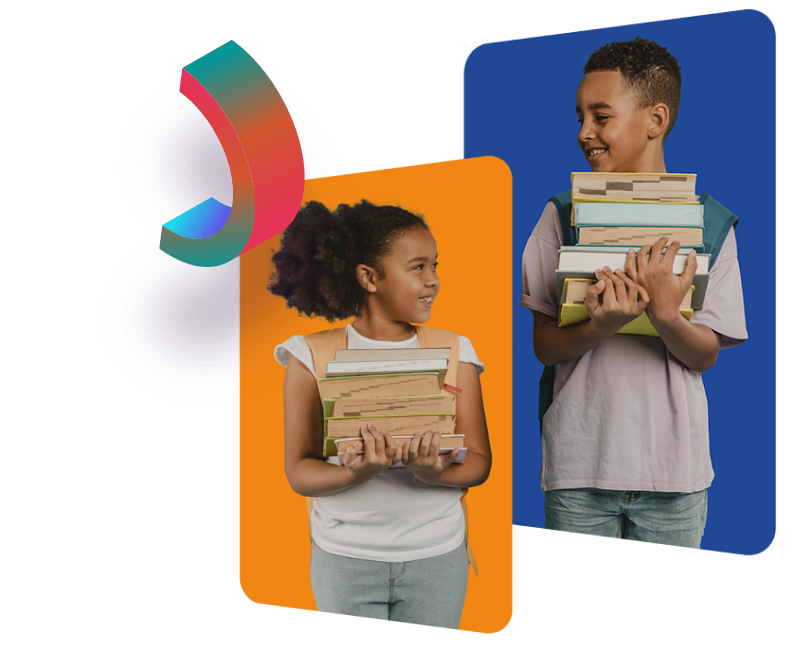
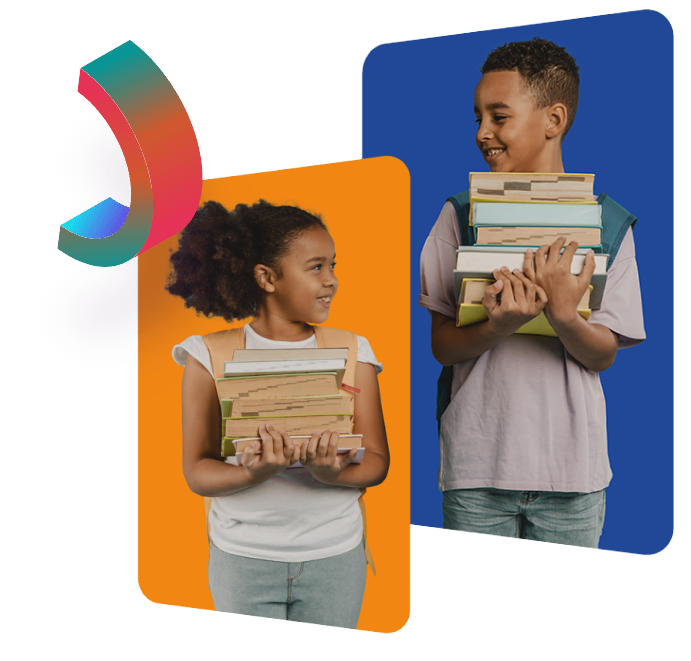
Navbar and Home page responsiveness

diff --git a/client/src/components/navbar/Navbar.jsx b/client/src/components/navbar/Navbar.jsx
@@ -1,34 +1,62 @@
-import React from "react";
-import { Link } from 'react-router-dom'; 
-import Profile from '../../assets/ketan.jpg'; 
-import Logo from '../../assets/logo.png'; 
+import React, { useState } from "react";
+import { Link } from 'react-router-dom';
+import Profile from '../../assets/ketan.jpg';
+import Logo from '../../assets/logo.png';
+import { FaBars, FaTimes } from 'react-icons/fa';
 
 const Navbar = () => {
+    const [isOpen, setIsOpen] = useState(false);
+
+    const toggleMenu = () => {
+        setIsOpen(!isOpen);
+    };
+
     return (
-        <section className="navbar w-full h-16 p-16  bg-transparent flex items-center justify-between px-8">
+        <section className="navbar w-full h-16 p-20 bg-transparent flex items-center justify-between px-8 relative">
             <div className="flex items-center">
-                <img src={Logo} className="w-11 h-11 ml-24 rounded-full" alt="Logo" />
+                <img src={Logo} className="w-11 h-11 ml-4 md:ml-24 rounded-full" alt="Logo" />
                 <span className="ml-4 text-white text-lg font-semibold">EduLink</span>
             </div>
             
-            <ul className="flex space-x-10 text-white">
-
+            {/* Desktop Menu */}
+            <ul className="hidden lg:flex space-x-10 text-white">
                 <li className="cursor-pointer px-5">
-                    <Link to="/" className=" font-semibold">Home</Link>
+                    <Link to="/" className="font-semibold">Home</Link>
                 </li>
-
                 <li className="cursor-pointer px-5">
-                    <Link to="/question" className=" font-semibold">Question</Link>
+                    <Link to="/question" className="font-semibold">Question</Link>
                 </li>
-
                 <li className="cursor-pointer px-5">
-                    <Link to="/resources" className=" font-semibold">Resources</Link>
+                    <Link to="/resources" className="font-semibold">Resources</Link>
                 </li>
-                
             </ul>
 
-            <div className="flex items-center">
-                <img src={Profile} className="w-11 h-11 mr-24 rounded-full" alt="Profile" />
+            <div className="hidden lg:flex items-center">
+                <img src={Profile} className="w-11 h-11 mr-4 md:mr-24 rounded-full" alt="Profile" />
+            </div>
+
+            {/* Mobile Menu Icon */}
+            <div className="lg:hidden flex items-center">
+                <button onClick={toggleMenu} className="text-white text-2xl">
+                    {isOpen ? <FaTimes /> : <FaBars />}
+                </button>
+            </div>
+
+            {/* Mobile Menu */}
+            <div
+                className={`fixed top-0 right-0 w-60 h-full bg-blue-500 text-white flex flex-col items-center pt-10 transition-transform transform ${
+                    isOpen ? "translate-x-0" : "translate-x-full"
+                } lg:hidden`}
+            >
+                {/* Close Button inside the Mobile Menu */}
+                <button onClick={toggleMenu} className="absolute top-4 right-4 text-white text-2xl">
+                    <FaTimes />
+                </button>
+                
+                <Link to="/" className="text-lg p-2 font-semibold hover:text-blue-500 mt-12" onClick={toggleMenu}>Home</Link>
+                <Link to="/question" className="text-lg hover:text-blue-500 p-2 font-semibold" onClick={toggleMenu}>Question</Link>
+                <Link to="/resources" className="text-lg hover:text-blue-500 p-2 font-semibold" onClick={toggleMenu}>Resources</Link>
+                <img src={Profile} className="w-20 h-20 p-2 mt-4 rounded-full" alt="Profile" />
             </div>
         </section>
     );

diff --git a/client/src/pages/home/Home.jsx b/client/src/pages/home/Home.jsx
@@ -6,17 +6,61 @@ import Banner from '../../assets/study.png';
 const Home = () => {
     return(
         <section className="home-page bg-[#151515] w-full h-svh">
+
+            {/* Imported Navbar */}
             <Navbar/>
-            <div className="home_title flex px-28 mt-11 overflow-hidden">
-                <div className="title-text">
-                    <h1 className="title text-8xl ml-28 mt-24 text-white font-bold">We make your doubt's clear</h1>
-                    <p className="desc ml-28 mt-8 text-[#fffefec7] ">A platform where all the students can clear their doubt  by faculty/alumni or seniors. And get the latest study material.</p>
-                    <button className="ml-28 mt-11 bg-blue-500 p-4 w-44 rounded-full text-white font-semibold"><Link to="/question" className="font-semibold">Ask question</Link></button>
+
+            {/* -------------------------Landing page content---------------------- */}
+            <div className="
+            home_title flex
+            2xl:px-28 xl:px-24 lg:px-24 md:px-16
+            mt-11 overflow-hidden">
+                
+                {/* -------------------------Left content----------------------- */}
+
+                <div className="title-text basis-4/5 h-full">
+                    
+                    {/* ----------------------Title------------------------ */}
+                    <h1 className="title 
+                    2xl:text-8xl xl:text-7xl lg:text-6xl md:text-5xl sm:text-6xl
+                    2xl:ml-28 xl:ml-20 lg:ml-14 md:ml-14 sm:ml-20 
+                    sm:w-4/5
+                    2xl:mt-24 xl:mt-24 lg:mt-20 md:mt-16 sm:mt-20
+                    text-white font-bold">We make your doubt's clear</h1>
+
+                    {/* ---------------------Sub title------------------------- */}
+                    <p className="desc 
+                    2xl:ml-28 xl:ml-20 lg:ml-14 md:ml-14 sm:ml-20 
+                    2xl:mt-8 xl:mt-8 lg:mt-8 md:mt-6 sm:mt-6
+                    2xl:text-lg xl:text-lg lg:text-base sm:text-xl sm:w-3/4 text-[#fffefec7] ">
+                        A platform where all the students can clear their doubt  by faculty/alumni or seniors. And get the latest study material.
+                    </p>
+
+                    {/* -------------------------Button------------------------- */}
+                    <button className="
+                    2xl:ml-28 xl:ml-20 lg:ml-14 md:ml-14 sm:ml-20
+                    2xl:mt-11 xl:mt-11 lg:mt-8 md:mt-6 sm:mt-11
+                    p-4 w-44
+                    bg-blue-500 rounded-full text-white font-semibold">
+                        <Link to="/question" className="font-semibold">Ask question</Link>
+                    </button>
+
+                    
                 </div>
-                <img src={Banner} className="mr-[2.1rem]" alt="" srcset="" />
+                    
+                {/* Right content ------------------BANNER IMAGE--------------*/}
+                <img srcSet={Banner} 
+                className="
+                basis-1/5
+                h-full
+                mt-16
+                2xl:w-[36rem] xl:w-[28rem] lg:w-[23rem] md:w-[20rem] sm:hidden md:block 
+                " alt="" />
+
             </div>
         </section>
     );
 }
 
 export default Home;
+

diff --git a/client/src/components/test.jsx b/client/src/components/test.jsx
@@ -1,9 +1,65 @@
-import React from 'react'
+import React, { useState } from "react";
+import { Link } from 'react-router-dom';
+import Profile from '../../assets/ketan.jpg';
+import Logo from '../../assets/logo.png';
+import { FaBars, FaTimes } from 'react-icons/fa';
 
-function test() {
-  return (
-    <div>test</div>
-  )
-}
+const Navbar = () => {
+    const [isOpen, setIsOpen] = useState(false);
 
-export default test
+    const toggleMenu = () => {
+        setIsOpen(!isOpen);
+    };
+
+    return (
+        <section className="navbar w-full h-16 p-4 bg-transparent flex items-center justify-between px-8 relative">
+            <div className="flex items-center">
+                <img src={Logo} className="w-11 h-11 ml-4 md:ml-24 rounded-full" alt="Logo" />
+                <span className="ml-4 text-white text-lg font-semibold">EduLink</span>
+            </div>
+            
+            {/* Desktop Menu */}
+            <ul className="hidden lg:flex space-x-10 text-white">
+                <li className="cursor-pointer px-5">
+                    <Link to="/" className="font-semibold">Home</Link>
+                </li>
+                <li className="cursor-pointer px-5">
+                    <Link to="/question" className="font-semibold">Question</Link>
+                </li>
+                <li className="cursor-pointer px-5">
+                    <Link to="/resources" className="font-semibold">Resources</Link>
+                </li>
+            </ul>
+
+            <div className="hidden lg:flex items-center">
+                <img src={Profile} className="w-11 h-11 mr-4 md:mr-24 rounded-full" alt="Profile" />
+            </div>
+
+            {/* Mobile Menu Icon */}
+            <div className="lg:hidden flex items-center">
+                <button onClick={toggleMenu} className="text-white text-2xl">
+                    {isOpen ? <FaTimes /> : <FaBars />}
+                </button>
+            </div>
+
+            {/* Mobile Menu */}
+            <div
+                className={`fixed top-0 right-0 w-3/4 h-full bg-gray-800 text-white flex flex-col items-center pt-10 transition-transform transform ${
+                    isOpen ? "translate-x-0" : "translate-x-full"
+                } lg:hidden`}
+            >
+                {/* Close Button inside the Mobile Menu */}
+                <button onClick={toggleMenu} className="absolute top-4 right-4 text-white text-2xl">
+                    <FaTimes />
+                </button>
+                
+                <Link to="/" className="text-lg font-semibold mt-12" onClick={toggleMenu}>Home</Link>
+                <Link to="/question" className="text-lg font-semibold" onClick={toggleMenu}>Question</Link>
+                <Link to="/resources" className="text-lg font-semibold" onClick={toggleMenu}>Resources</Link>
+                <img src={Profile} className="w-20 h-20 mt-4 rounded-full" alt="Profile" />
+            </div>
+        </section>
+    );
+};
+
+export default Navbar;
